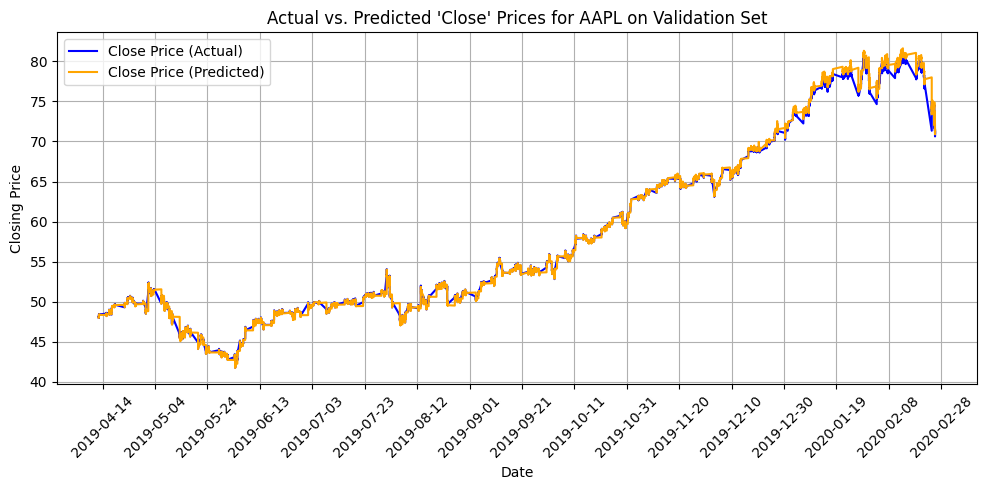
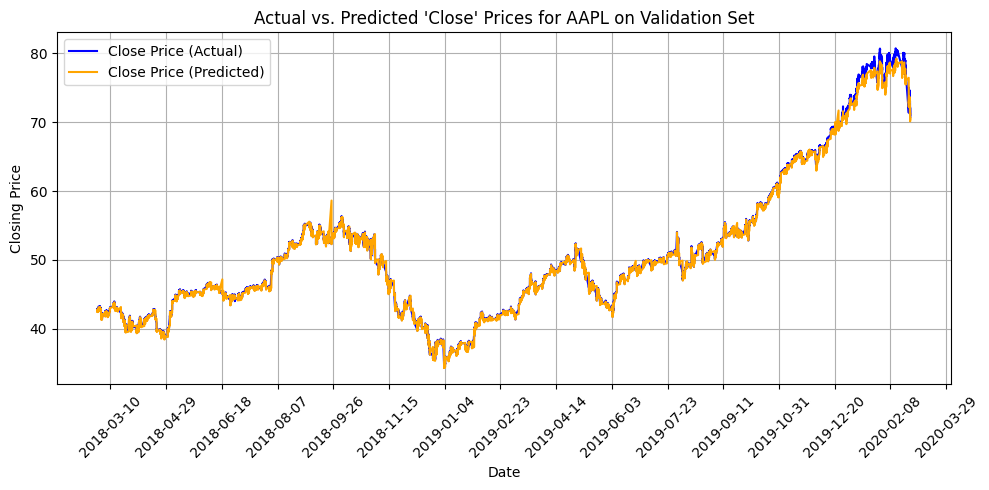
updated some hyper params

diff --git a/22m2153.py b/22m2153.py
@@ -139,19 +139,20 @@ def train_test_df_split(df_dict):
         df['DateTime'] = pd.to_datetime(df['DateTime'])  # Ensure the DateTime column is of datetime type
         
         # Find the date that is two years before the last date in the dataframe
-        offset_date = df['DateTime'].iloc[-1] - pd.DateOffset(years=2)
+        test_offset_date = df['DateTime'].iloc[-1] - pd.DateOffset(years=2)
         
         # Separate out the last two years for the test set
-        mask = df['DateTime'] >= offset_date
-        test_df = df[mask]
+        mask_test = df['DateTime'] >= test_offset_date
+        test_df = df[mask_test]
         
-        # From the remaining data, split 10% for the validation set
-        remaining_df = df[~mask]
-        valid_length = int(0.1 * len(remaining_df))
-        valid_df = remaining_df[-valid_length:]
+        # For the validation set, separate the data two years before the test set's start date
+        valid_offset_date = test_df['DateTime'].iloc[0] - pd.DateOffset(years=2)
+        mask_valid = (df['DateTime'] >= valid_offset_date) & (df['DateTime'] < test_df['DateTime'].iloc[0])
+        valid_df = df[mask_valid]
         
         # The rest of the data is for the training set
-        train_df = remaining_df[:-valid_length]
+        mask_train = df['DateTime'] < valid_df['DateTime'].iloc[0]
+        train_df = df[mask_train]
         
         train_df_dict[stock] = train_df
         valid_df_dict[stock] = valid_df
@@ -488,13 +489,12 @@ def main(stock, plot=False, **kwargs):
         'few_stocks': 4,
         'start_date': '2020-01-01',
         'end_date': '2020-02-01',
-        'device': 'cuda' if torch.cuda.is_available() else 'cpu',
         'hidden_dim': 32,
         'num_layers': 1,
-        'seq_length': 7,
+        'seq_length': 10,
         'pred_horizon': 1,
         'predict': 'Close',
-        'epochs': 10,
+        'epochs': 16,
         'learning_rate': 0.01,
         'weight_decay': 0.03,
         'regularize': False,
@@ -531,13 +531,12 @@ def main(stock, plot=False, **kwargs):
     
     # Training the model
     print("Training model...")
-    model = LSTM(input_dim=X_train.shape[2], hidden_dim=hyperparameters['hidden_dim'], num_layers=hyperparameters['num_layers'], output_dim=Y_train.shape[1]).to(hyperparameters['device'])
+    model = LSTM(input_dim=X_train.shape[2], hidden_dim=hyperparameters['hidden_dim'], num_layers=hyperparameters['num_layers'], output_dim=Y_train.shape[1]).to(device)
     trained_model, train_losses, valid_losses = train_model(model, train_loader, valid_loader, num_epochs=hyperparameters['epochs'], learning_rate=hyperparameters['learning_rate'], regularize=hyperparameters['regularize'])
     
     # Getting predictions and descaling on the validation sets
     with torch.no_grad():
         Y_valid_pred = trained_model(X_valid.to(device)).to('cpu').numpy()
-    
     Y_valid_descaled = descale_data(scaled_data=Y_valid, stock=stock, column=hyperparameters['predict'], scalers_dict=scalers_dict)
     Y_valid_pred_descaled = descale_data(scaled_data=Y_valid_pred, stock=stock, column=hyperparameters['predict'], scalers_dict=scalers_dict)
     
@@ -575,7 +574,6 @@ if __name__ == "__main__":
     parser.add_argument('--few_stocks', type=int, help='Used in Q1 to plot few stocks')
     parser.add_argument('--start_date', type=str, help="Start date for data (default: '2020-01-01')")
     parser.add_argument('--end_date', type=str, help="End date for data (default: '2020-02-01')")
-    parser.add_argument('--device', type=str, help="Set device to 'cuda' or 'cpu'")
     parser.add_argument('--hidden_dim', type=int, help='Hidden dimensions for LSTM')
     parser.add_argument('--num_layers', type=int, help='Number of layers in LSTM')
     parser.add_argument('--seq_length', type=int, help='Sequence length for LSTM model')
